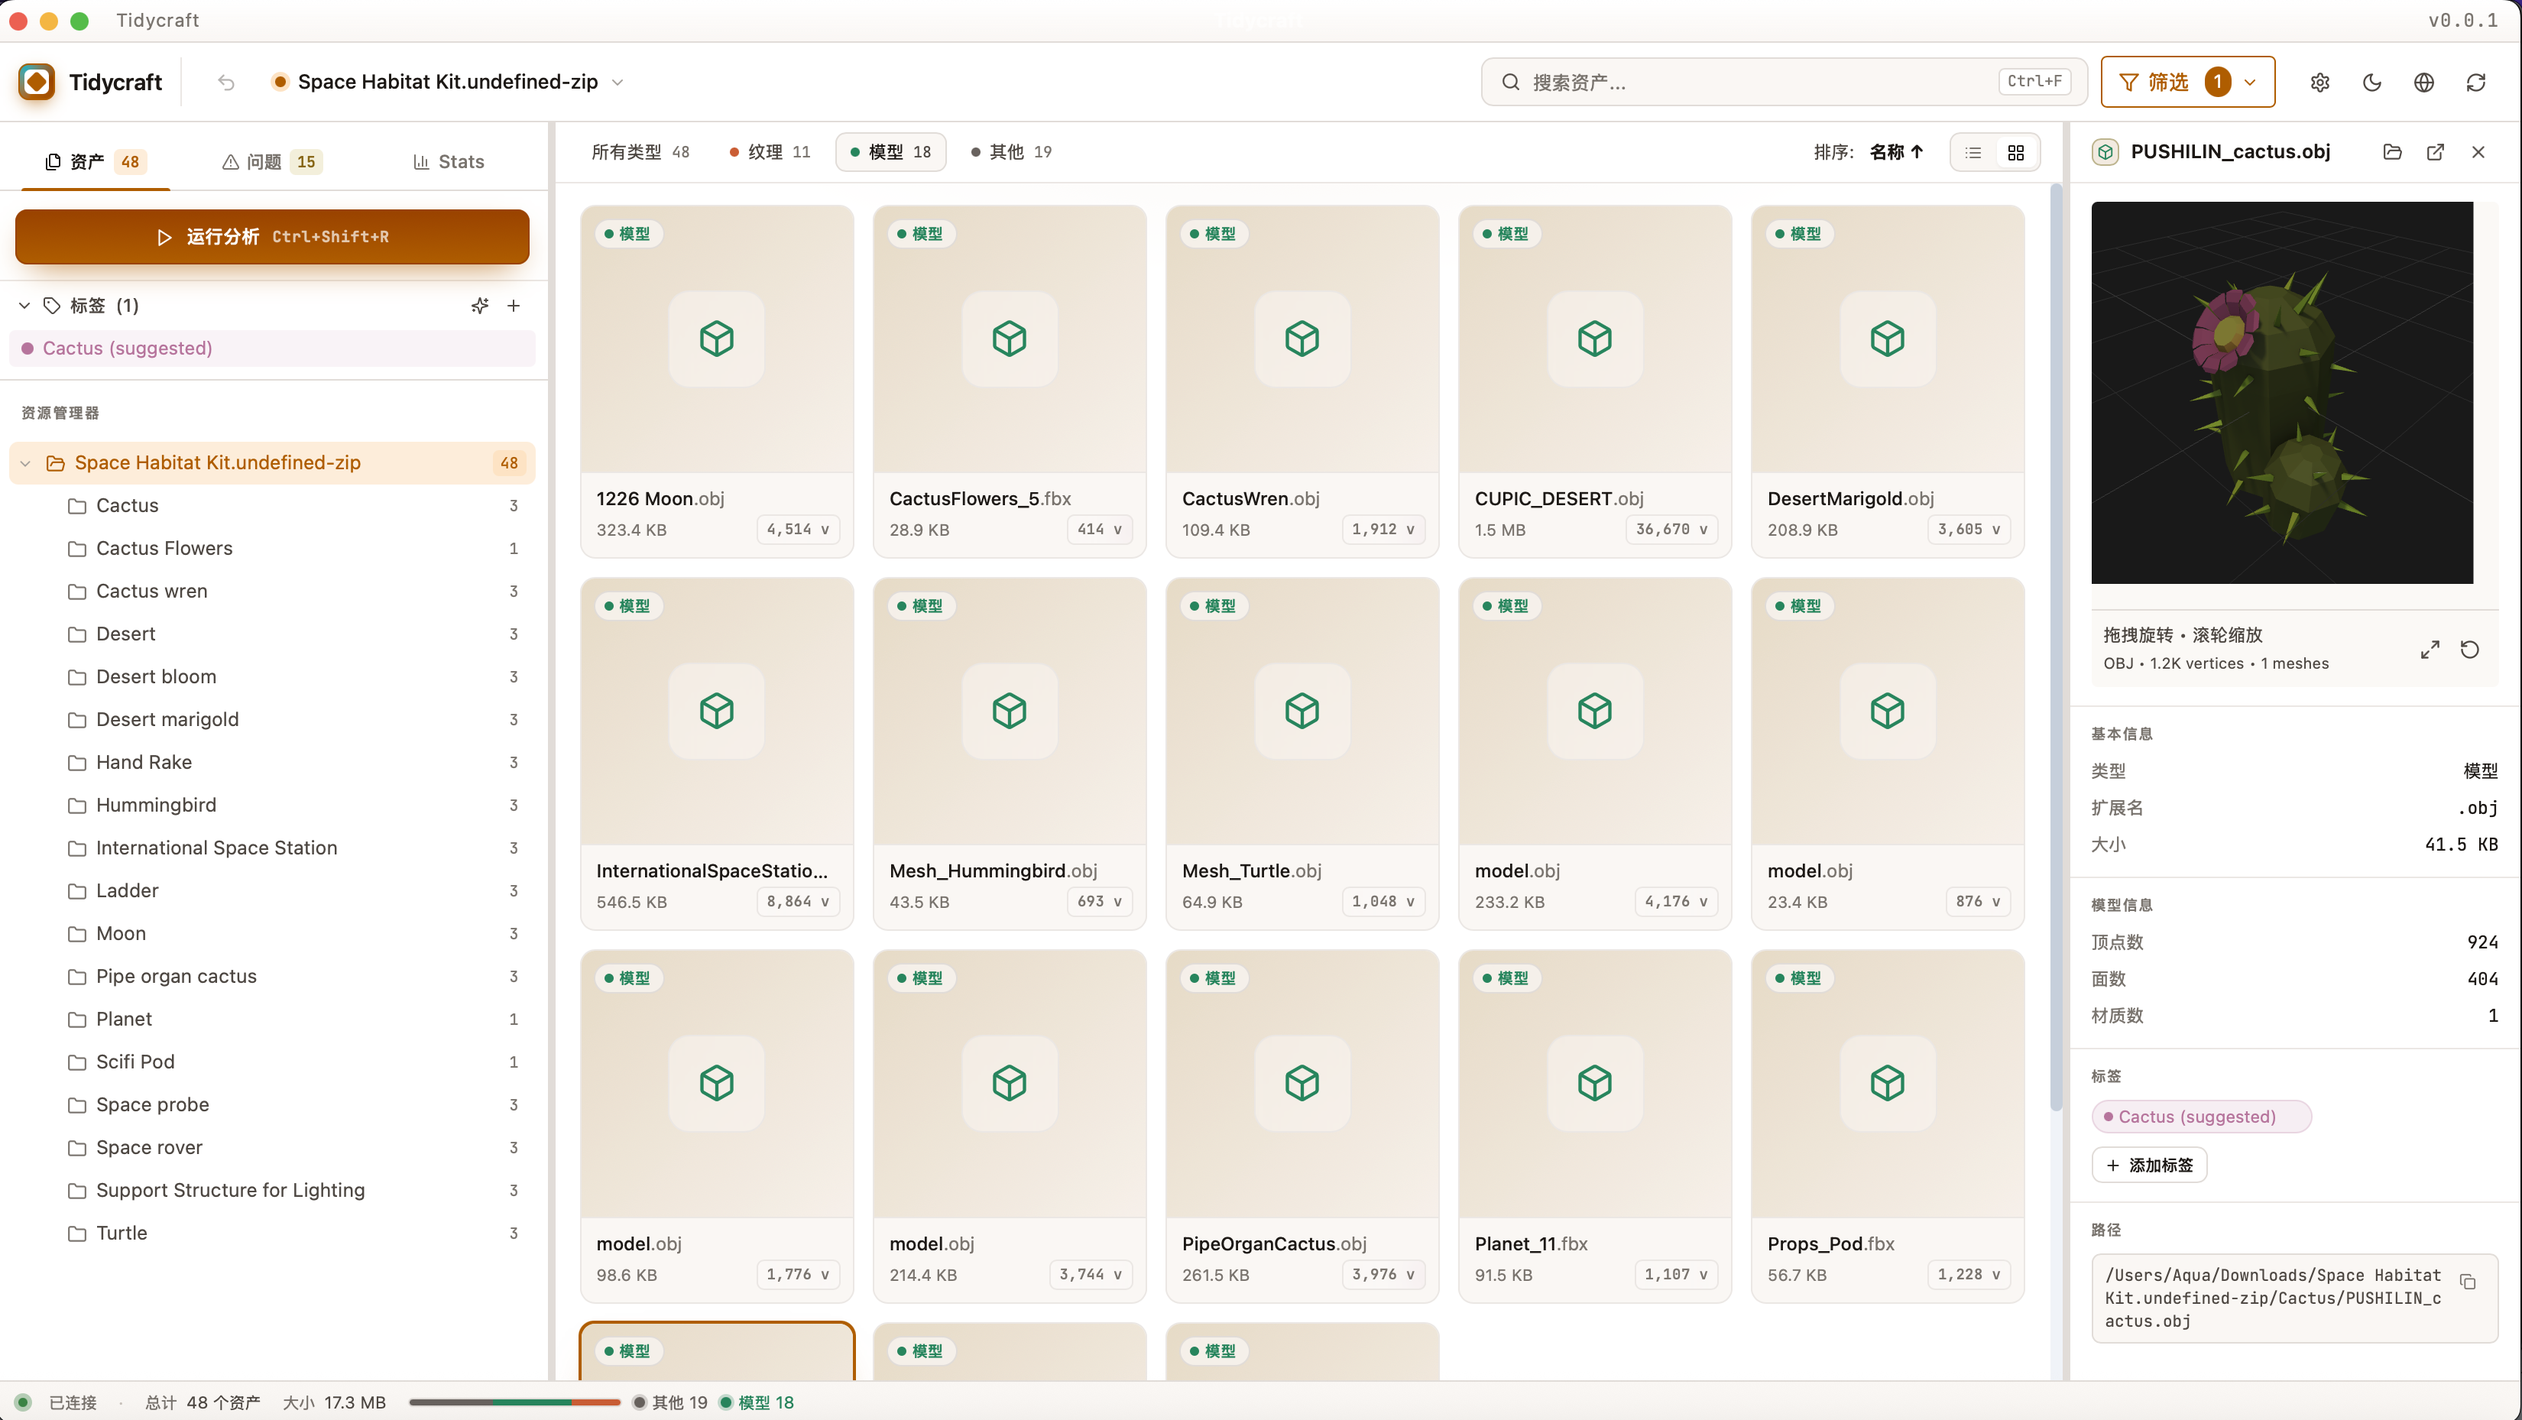
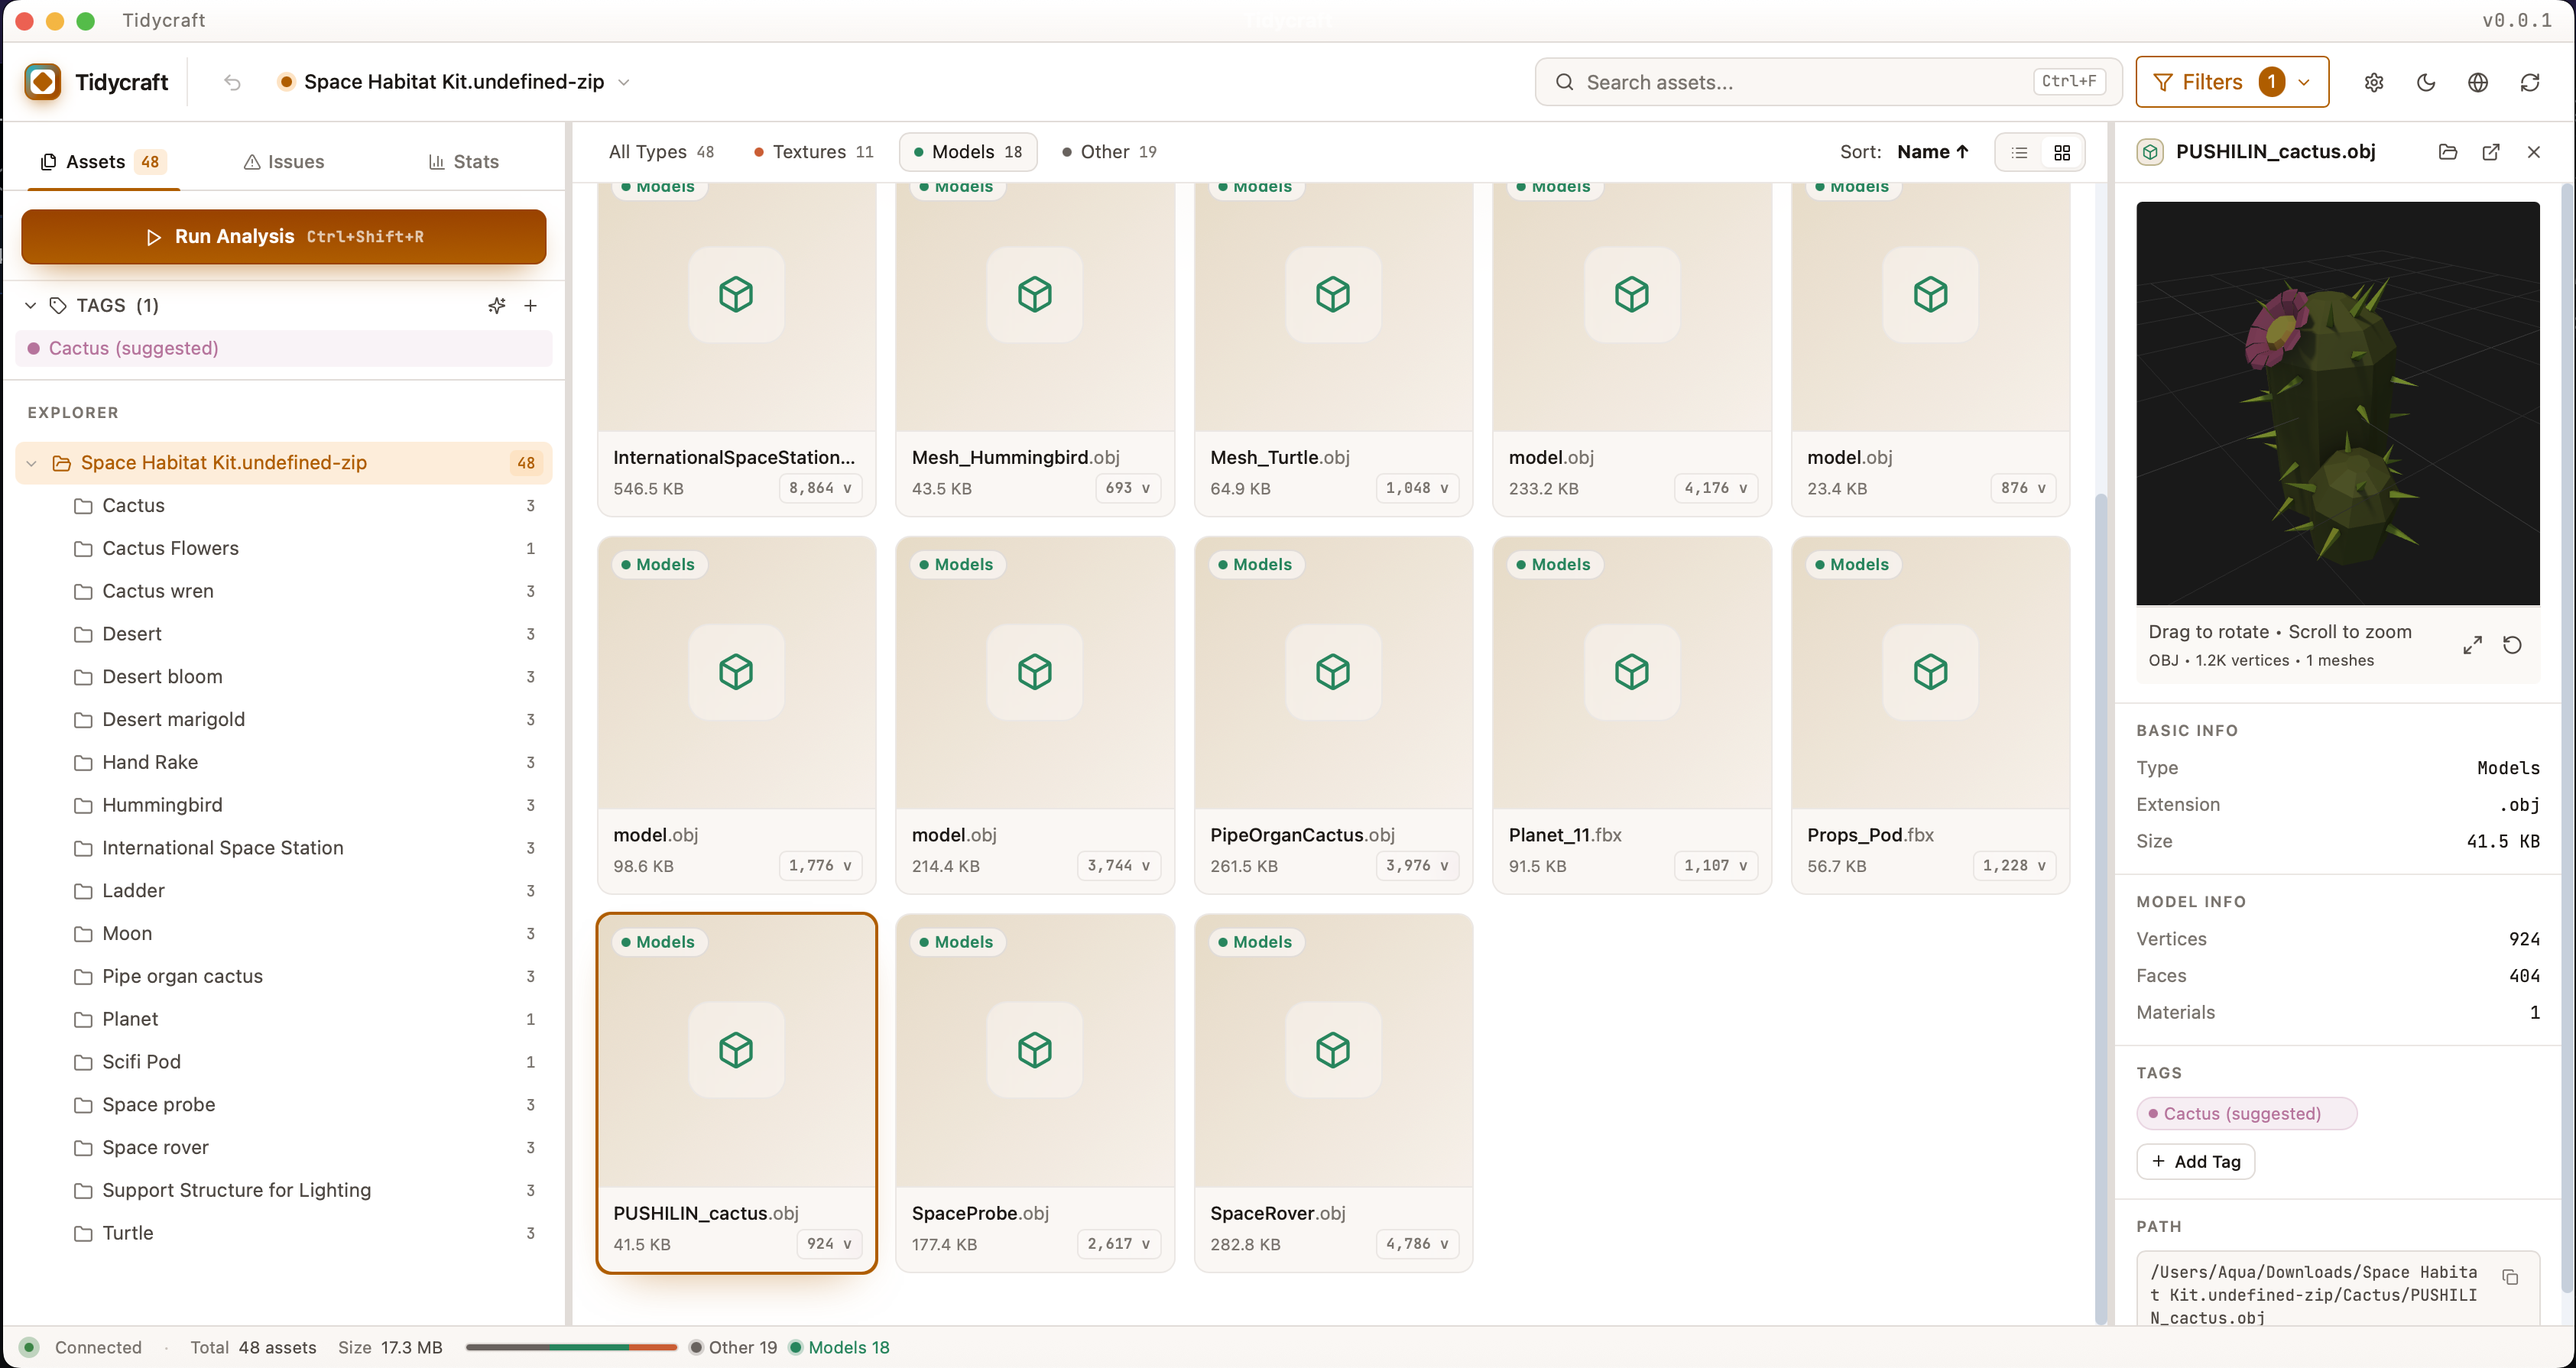
update

diff --git a/README.zh-CN.md b/README.zh-CN.md
@@ -176,37 +176,44 @@ pnpm tauri build
 
 ## ⚙ 配置说明
 
-在项目根目录创建 `tidycraft.toml` 文件：
+把 `tidycraft.toml` 放到项目根目录，下次 Run Analysis 会自动加载。侧边栏的 **运行分析** 按钮上会出现一个小圆点提示当前使用了自定义规则。
+
+可用的样例文件：[`examples/tidycraft.example.toml`](examples/tidycraft.example.toml) —— 复制到你的项目根目录、改名为 `tidycraft.toml`，按需调整即可。字段速查：
 
 ```toml
 [naming]
-check_forbidden_chars = true
-forbidden_chars = ['<', '>', ':', '"', '|', '?', '*']
-check_chinese = true
-check_prefix = false
-required_prefix = "tex_"
+enabled = true
+forbidden_chars = ['<', '>', ':', '"', '|', '?', '*', '/', '\']
+forbid_chinese = true
+max_length = 64
+texture_prefix = "T_"      # 可选
+model_prefix = "SM_"       # 可选
+audio_prefix = "A_"        # 可选
+case_style = "snake_case"  # any | snake_case | kebab-case | PascalCase | camelCase
 
 [texture]
-check_pot = true
-check_max_size = true
-max_width = 4096
-max_height = 4096
+enabled = true
+require_pot = true
+max_size = 4096            # 像素
+min_size = 4               # 像素
+warn_non_square = false
+max_file_size = 10_485_760 # 字节
 
 [model]
-check_vertex_count = true
-max_vertices = 100000
-check_face_count = true
-max_faces = 50000
+enabled = true
+max_vertices = 100_000
+max_faces = 100_000
+max_materials = 10
 
 [audio]
-check_sample_rate = true
-allowed_sample_rates = [44100, 48000]
-check_duration = true
-max_duration_secs = 300.0
-
-[duplicate]
 enabled = true
+allowed_sample_rates = [44_100, 48_000]
+max_sfx_duration = 30.0    # 秒
+max_file_size = 20_971_520 # 字节
+prefer_mono_for_sfx = false
 ```
+
+任何字段都可省略，缺失的字段会回退到默认值。
 
 ---
 

diff --git a/README.md b/README.md
@@ -176,37 +176,44 @@ pnpm tauri build
 
 ## ⚙ Configuration
 
-Create a `tidycraft.toml` in your project root:
+Drop a `tidycraft.toml` in your project root and the next analysis will pick it up automatically. The Sidebar's **Run Analysis** button shows a small dot when custom rules are loaded.
+
+A working starter config is at [`examples/tidycraft.example.toml`](examples/tidycraft.example.toml) — copy it to your project root, rename to `tidycraft.toml`, and tweak. Quick reference:
 
 ```toml
 [naming]
-check_forbidden_chars = true
-forbidden_chars = ['<', '>', ':', '"', '|', '?', '*']
-check_chinese = true
-check_prefix = false
-required_prefix = "tex_"
+enabled = true
+forbidden_chars = ['<', '>', ':', '"', '|', '?', '*', '/', '\']
+forbid_chinese = true
+max_length = 64
+texture_prefix = "T_"      # nullable
+model_prefix = "SM_"       # nullable
+audio_prefix = "A_"        # nullable
+case_style = "snake_case"  # any | snake_case | kebab-case | PascalCase | camelCase
 
 [texture]
-check_pot = true
-check_max_size = true
-max_width = 4096
-max_height = 4096
+enabled = true
+require_pot = true
+max_size = 4096            # px
+min_size = 4               # px
+warn_non_square = false
+max_file_size = 10_485_760 # bytes
 
 [model]
-check_vertex_count = true
-max_vertices = 100000
-check_face_count = true
-max_faces = 50000
+enabled = true
+max_vertices = 100_000
+max_faces = 100_000
+max_materials = 10
 
 [audio]
-check_sample_rate = true
-allowed_sample_rates = [44100, 48000]
-check_duration = true
-max_duration_secs = 300.0
-
-[duplicate]
 enabled = true
+allowed_sample_rates = [44_100, 48_000]
+max_sfx_duration = 30.0    # seconds
+max_file_size = 20_971_520 # bytes
+prefer_mono_for_sfx = false
 ```
+
+Any field can be omitted — missing fields fall back to defaults.
 
 ---
 
